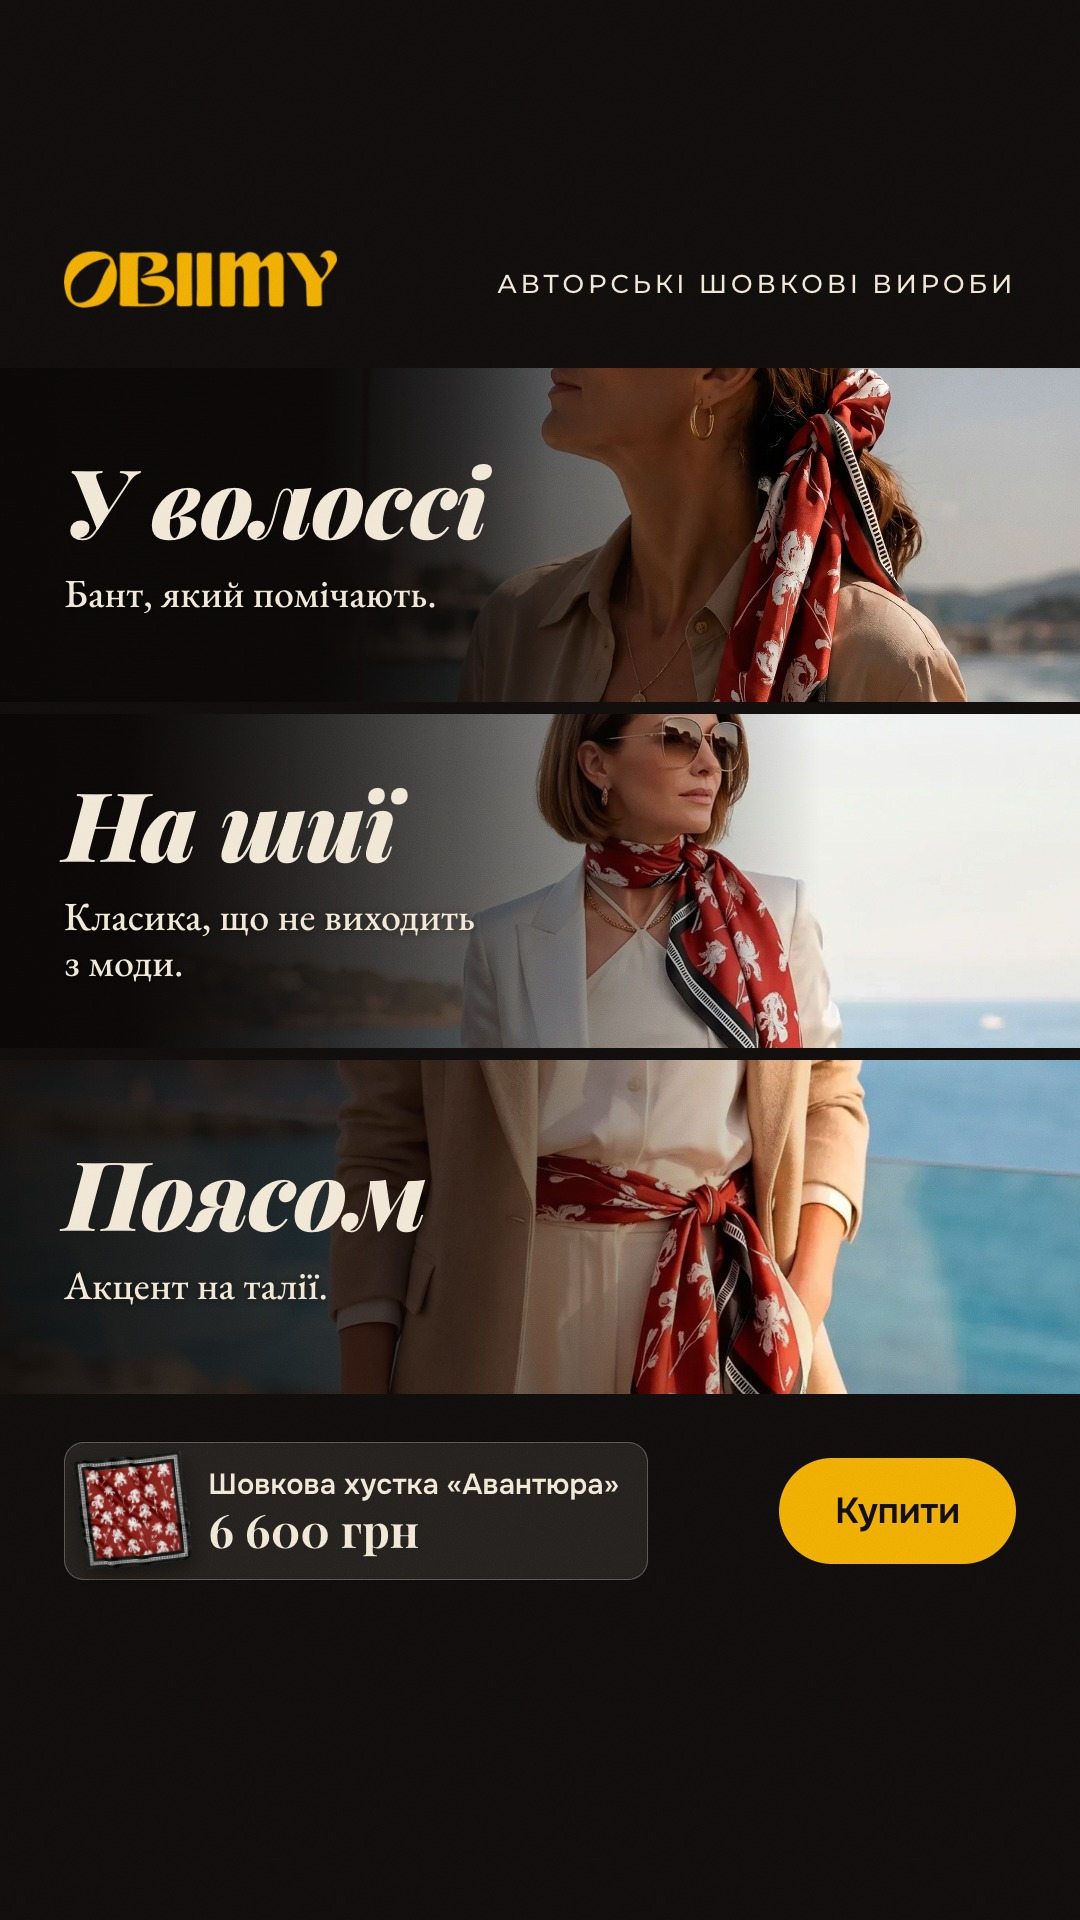
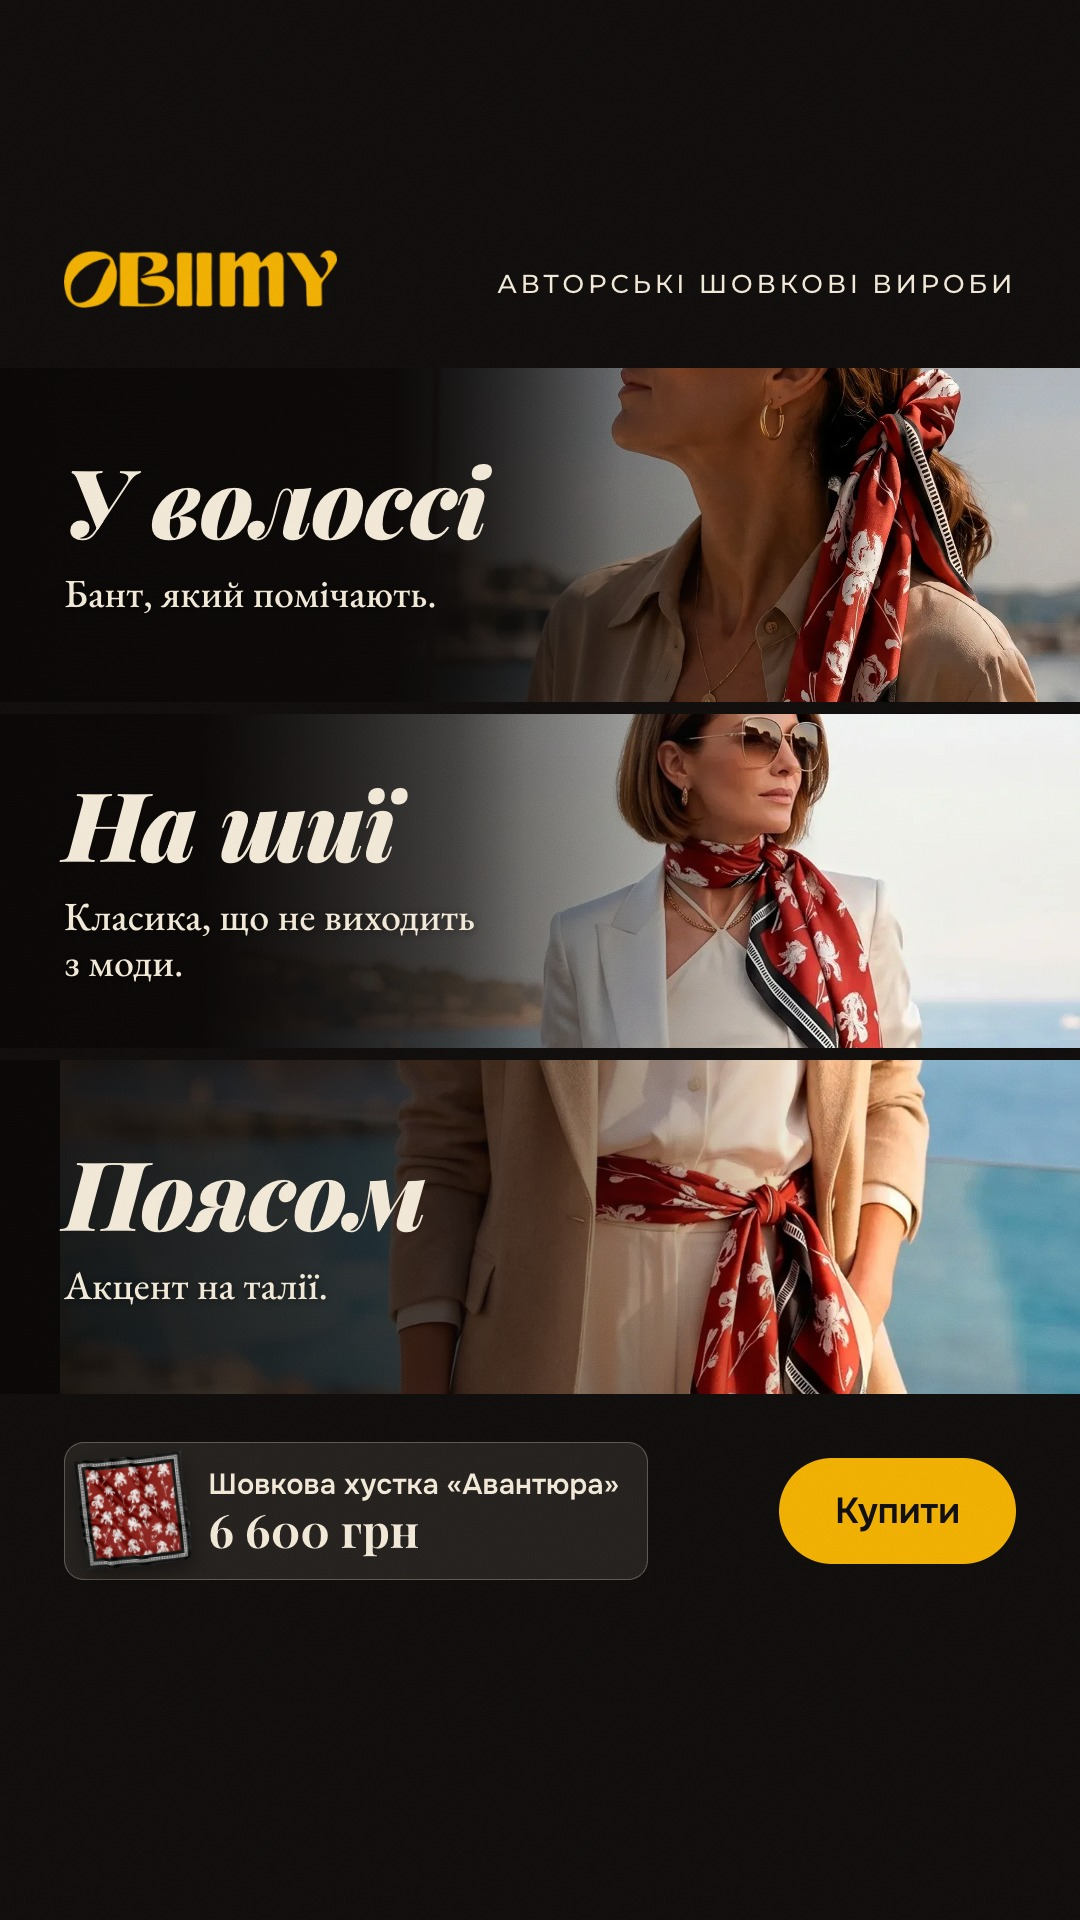
Creatives: «Одна хустка — три способи», story — the three figures moved right, away from the captions

Changed region(s): [[0.3056, 0.1875, 1.0, 0.75], [0.3361, 0.5, 0.4278, 0.5312], [0.9778, 0.5312, 1.0, 0.5625]]

diff --git a/site/creatives.html b/site/creatives.html
@@ -105,7 +105,7 @@ footer { margin-top: 72px; color: var(--ink2); font-size: .85rem; border-top: 1p
 <div class="fmt" role="group" aria-label="Формат банерів"><b>Формат:</b><button type="button" data-fmt="plain" aria-pressed="true">Банер 9:16</button><button type="button" data-fmt="story" aria-pressed="false">Сторіс · безпечна зона</button><button type="button" data-fmt="feed" aria-pressed="false">Стрічка 4:5</button><button type="button" data-fmt="square" aria-pressed="false">Квадрат 1:1</button><span class="fn" id="fmtn"></span><button type="button" id="zipall" class="zip" title="Усі формати всіх показаних банерів одним архівом">Завантажити все (ZIP)</button></div>
 
 <section class="grp flat"><div class="grid"><figure class="c st" data-f="st" data-id="solo-tri/t01-decades.jpg" data-plain="{&quot;f&quot;: &quot;creatives/solo-tri/t01-decades.jpg?v=5ddc2575&quot;, &quot;p&quot;: &quot;creatives/solo-tri/t01-decades-540.webp?v=5ddc2575&quot;, &quot;n&quot;: &quot;t01-decades.jpg&quot;, &quot;w&quot;: 540, &quot;h&quot;: 960}" data-alt="{&quot;story&quot;: {&quot;f&quot;: &quot;creatives/solo-tri/t01-decades-story.jpg?v=992465dd&quot;, &quot;p&quot;: &quot;creatives/solo-tri/t01-decades-story-540.webp?v=992465dd&quot;, &quot;n&quot;: &quot;t01-decades-story.jpg&quot;, &quot;w&quot;: 540, &quot;h&quot;: 960}, &quot;feed&quot;: {&quot;f&quot;: &quot;creatives/solo-tri/t01-decades-45.jpg?v=4184246b&quot;, &quot;p&quot;: &quot;creatives/solo-tri/t01-decades-45-540.webp?v=4184246b&quot;, &quot;n&quot;: &quot;t01-decades-45.jpg&quot;, &quot;w&quot;: 540, &quot;h&quot;: 675}, &quot;square&quot;: {&quot;f&quot;: &quot;creatives/solo-tri/t01-decades-1x1.jpg?v=073ab80b&quot;, &quot;p&quot;: &quot;creatives/solo-tri/t01-decades-1x1-540.webp?v=073ab80b&quot;, &quot;n&quot;: &quot;t01-decades-1x1.jpg&quot;, &quot;w&quot;: 540, &quot;h&quot;: 540}}"><a href="creatives/solo-tri/t01-decades.jpg?v=5ddc2575" target="_blank" rel="noopener"><img src="creatives/solo-tri/t01-decades-540.webp?v=5ddc2575" alt="Смуги-історії · варіант A" loading="lazy" width="540" height="960"></a>
-        <figcaption><label class="pick"><input type="checkbox" data-id="solo-tri/t01-decades.jpg"><span>Залишити</span></label><span class="fid">t01</span><a href="creatives/solo-tri/t01-decades.jpg?v=5ddc2575" download="t01-decades.jpg">JPG ↓</a></figcaption></figure><figure class="c st" data-f="st" data-id="solo-tri/t05-avantiura-ways.jpg" data-plain="{&quot;f&quot;: &quot;creatives/solo-tri/t05-avantiura-ways.jpg?v=55b422d6&quot;, &quot;p&quot;: &quot;creatives/solo-tri/t05-avantiura-ways-540.webp?v=55b422d6&quot;, &quot;n&quot;: &quot;t05-avantiura-ways.jpg&quot;, &quot;w&quot;: 540, &quot;h&quot;: 960}" data-alt="{&quot;story&quot;: {&quot;f&quot;: &quot;creatives/solo-tri/t05-avantiura-ways-story.jpg?v=102acc27&quot;, &quot;p&quot;: &quot;creatives/solo-tri/t05-avantiura-ways-story-540.webp?v=102acc27&quot;, &quot;n&quot;: &quot;t05-avantiura-ways-story.jpg&quot;, &quot;w&quot;: 540, &quot;h&quot;: 960}, &quot;feed&quot;: {&quot;f&quot;: &quot;creatives/solo-tri/t05-avantiura-ways-45.jpg?v=cbe2ee77&quot;, &quot;p&quot;: &quot;creatives/solo-tri/t05-avantiura-ways-45-540.webp?v=cbe2ee77&quot;, &quot;n&quot;: &quot;t05-avantiura-ways-45.jpg&quot;, &quot;w&quot;: 540, &quot;h&quot;: 675}, &quot;square&quot;: {&quot;f&quot;: &quot;creatives/solo-tri/t05-avantiura-ways-1x1.jpg?v=7af2ee6d&quot;, &quot;p&quot;: &quot;creatives/solo-tri/t05-avantiura-ways-1x1-540.webp?v=7af2ee6d&quot;, &quot;n&quot;: &quot;t05-avantiura-ways-1x1.jpg&quot;, &quot;w&quot;: 540, &quot;h&quot;: 540}}"><a href="creatives/solo-tri/t05-avantiura-ways.jpg?v=55b422d6" target="_blank" rel="noopener"><img src="creatives/solo-tri/t05-avantiura-ways-540.webp?v=55b422d6" alt="Смуги-історії · варіант A" loading="lazy" width="540" height="960"></a>
+        <figcaption><label class="pick"><input type="checkbox" data-id="solo-tri/t01-decades.jpg"><span>Залишити</span></label><span class="fid">t01</span><a href="creatives/solo-tri/t01-decades.jpg?v=5ddc2575" download="t01-decades.jpg">JPG ↓</a></figcaption></figure><figure class="c st" data-f="st" data-id="solo-tri/t05-avantiura-ways.jpg" data-plain="{&quot;f&quot;: &quot;creatives/solo-tri/t05-avantiura-ways.jpg?v=55b422d6&quot;, &quot;p&quot;: &quot;creatives/solo-tri/t05-avantiura-ways-540.webp?v=55b422d6&quot;, &quot;n&quot;: &quot;t05-avantiura-ways.jpg&quot;, &quot;w&quot;: 540, &quot;h&quot;: 960}" data-alt="{&quot;story&quot;: {&quot;f&quot;: &quot;creatives/solo-tri/t05-avantiura-ways-story.jpg?v=023518a1&quot;, &quot;p&quot;: &quot;creatives/solo-tri/t05-avantiura-ways-story-540.webp?v=023518a1&quot;, &quot;n&quot;: &quot;t05-avantiura-ways-story.jpg&quot;, &quot;w&quot;: 540, &quot;h&quot;: 960}, &quot;feed&quot;: {&quot;f&quot;: &quot;creatives/solo-tri/t05-avantiura-ways-45.jpg?v=cbe2ee77&quot;, &quot;p&quot;: &quot;creatives/solo-tri/t05-avantiura-ways-45-540.webp?v=cbe2ee77&quot;, &quot;n&quot;: &quot;t05-avantiura-ways-45.jpg&quot;, &quot;w&quot;: 540, &quot;h&quot;: 675}, &quot;square&quot;: {&quot;f&quot;: &quot;creatives/solo-tri/t05-avantiura-ways-1x1.jpg?v=7af2ee6d&quot;, &quot;p&quot;: &quot;creatives/solo-tri/t05-avantiura-ways-1x1-540.webp?v=7af2ee6d&quot;, &quot;n&quot;: &quot;t05-avantiura-ways-1x1.jpg&quot;, &quot;w&quot;: 540, &quot;h&quot;: 540}}"><a href="creatives/solo-tri/t05-avantiura-ways.jpg?v=55b422d6" target="_blank" rel="noopener"><img src="creatives/solo-tri/t05-avantiura-ways-540.webp?v=55b422d6" alt="Смуги-історії · варіант A" loading="lazy" width="540" height="960"></a>
         <figcaption><label class="pick"><input type="checkbox" data-id="solo-tri/t05-avantiura-ways.jpg"><span>Залишити</span></label><span class="fid">t05</span><a href="creatives/solo-tri/t05-avantiura-ways.jpg?v=55b422d6" download="t05-avantiura-ways.jpg">JPG ↓</a></figcaption></figure><figure class="c st" data-f="st" data-id="solo-main/p01-quiet-luxury.jpg" data-plain="{&quot;f&quot;: &quot;creatives/solo-main/p01-quiet-luxury.jpg?v=c234fc8a&quot;, &quot;p&quot;: &quot;creatives/solo-main/p01-quiet-luxury-540.webp?v=c234fc8a&quot;, &quot;n&quot;: &quot;p01-quiet-luxury.jpg&quot;, &quot;w&quot;: 540, &quot;h&quot;: 960}"><a href="creatives/solo-main/p01-quiet-luxury.jpg?v=c234fc8a" target="_blank" rel="noopener"><img src="creatives/solo-main/p01-quiet-luxury-540.webp?v=c234fc8a" alt="Варіант A · тихий преміум" loading="lazy" width="540" height="960"></a>
         <figcaption><label class="pick"><input type="checkbox" data-id="solo-main/p01-quiet-luxury.jpg"><span>Залишити</span></label><span class="fid">p01</span><a href="creatives/solo-main/p01-quiet-luxury.jpg?v=c234fc8a" download="p01-quiet-luxury.jpg">JPG ↓</a></figcaption></figure><figure class="c st" data-f="st" data-id="solo-main/p05-character.jpg" data-plain="{&quot;f&quot;: &quot;creatives/solo-main/p05-character.jpg?v=030c663a&quot;, &quot;p&quot;: &quot;creatives/solo-main/p05-character-540.webp?v=030c663a&quot;, &quot;n&quot;: &quot;p05-character.jpg&quot;, &quot;w&quot;: 540, &quot;h&quot;: 960}" data-alt="{&quot;story&quot;: {&quot;f&quot;: &quot;creatives/solo-main/p05-character-story.jpg?v=eed94415&quot;, &quot;p&quot;: &quot;creatives/solo-main/p05-character-story-540.webp?v=eed94415&quot;, &quot;n&quot;: &quot;p05-character-story.jpg&quot;, &quot;w&quot;: 540, &quot;h&quot;: 960}, &quot;feed&quot;: {&quot;f&quot;: &quot;creatives/solo-main/p05-character-45.jpg?v=49041a0a&quot;, &quot;p&quot;: &quot;creatives/solo-main/p05-character-45-540.webp?v=49041a0a&quot;, &quot;n&quot;: &quot;p05-character-45.jpg&quot;, &quot;w&quot;: 540, &quot;h&quot;: 675}, &quot;square&quot;: {&quot;f&quot;: &quot;creatives/solo-main/p05-character-1x1.jpg?v=e0087e64&quot;, &quot;p&quot;: &quot;creatives/solo-main/p05-character-1x1-540.webp?v=e0087e64&quot;, &quot;n&quot;: &quot;p05-character-1x1.jpg&quot;, &quot;w&quot;: 540, &quot;h&quot;: 540}}"><a href="creatives/solo-main/p05-character.jpg?v=030c663a" target="_blank" rel="noopener"><img src="creatives/solo-main/p05-character-540.webp?v=030c663a" alt="Варіант A · тихий преміум" loading="lazy" width="540" height="960"></a>
         <figcaption><label class="pick"><input type="checkbox" data-id="solo-main/p05-character.jpg"><span>Залишити</span></label><span class="fid">p05</span><a href="creatives/solo-main/p05-character.jpg?v=030c663a" download="p05-character.jpg">JPG ↓</a></figcaption></figure><figure class="c st" data-f="st" data-id="solo-main/p06-noticed.jpg" data-plain="{&quot;f&quot;: &quot;creatives/solo-main/p06-noticed.jpg?v=22dc43d3&quot;, &quot;p&quot;: &quot;creatives/solo-main/p06-noticed-540.webp?v=22dc43d3&quot;, &quot;n&quot;: &quot;p06-noticed.jpg&quot;, &quot;w&quot;: 540, &quot;h&quot;: 960}" data-alt="{&quot;story&quot;: {&quot;f&quot;: &quot;creatives/solo-main/p06-noticed-story.jpg?v=67901893&quot;, &quot;p&quot;: &quot;creatives/solo-main/p06-noticed-story-540.webp?v=67901893&quot;, &quot;n&quot;: &quot;p06-noticed-story.jpg&quot;, &quot;w&quot;: 540, &quot;h&quot;: 960}, &quot;feed&quot;: {&quot;f&quot;: &quot;creatives/solo-main/p06-noticed-45.jpg?v=e0c1b71b&quot;, &quot;p&quot;: &quot;creatives/solo-main/p06-noticed-45-540.webp?v=e0c1b71b&quot;, &quot;n&quot;: &quot;p06-noticed-45.jpg&quot;, &quot;w&quot;: 540, &quot;h&quot;: 675}, &quot;square&quot;: {&quot;f&quot;: &quot;creatives/solo-main/p06-noticed-1x1.jpg?v=aa799925&quot;, &quot;p&quot;: &quot;creatives/solo-main/p06-noticed-1x1-540.webp?v=aa799925&quot;, &quot;n&quot;: &quot;p06-noticed-1x1.jpg&quot;, &quot;w&quot;: 540, &quot;h&quot;: 540}}"><a href="creatives/solo-main/p06-noticed.jpg?v=22dc43d3" target="_blank" rel="noopener"><img src="creatives/solo-main/p06-noticed-540.webp?v=22dc43d3" alt="Варіант A · тихий преміум" loading="lazy" width="540" height="960"></a>

diff --git a/ads/solo/solo6-story.html b/ads/solo/solo6-story.html
@@ -97,11 +97,11 @@ body { margin: 0; background: #555; font-family: 'Onest', Arial, sans-serif; -we
   <div style="left:64px;top:250px;height:58px;width:273px;background:#F2B705;-webkit-mask:url(../../brand/logo-white.png) 0 0/100% 100% no-repeat;mask:url(../../brand/logo-white.png) 0 0/100% 100% no-repeat"></div>
   <p style="right:64px;top:268px;font-family:Montserrat,sans-serif;font-size:26px;font-weight:500;letter-spacing:.14em;text-transform:uppercase;white-space:nowrap;color:#F3EADB">Авторські шовкові вироби</p>
   
-  <div class="band" style="top:368px;height:334px"><img src="src/avantiura-88-5.webp" alt="" style="object-position:50% 46%;;width:70%;margin-left:auto;-webkit-mask-image:linear-gradient(90deg,transparent 0,#000 30%);mask-image:linear-gradient(90deg,transparent 0,#000 30%)"><div class="veil"></div>
+  <div class="band" style="top:368px;height:334px"><img src="src/avantiura-88-5.webp" alt="" style="object-position:50% 46%;;transform:translateX(70px);width:70%;margin-left:auto;-webkit-mask-image:linear-gradient(90deg,transparent 0,#000 30%);mask-image:linear-gradient(90deg,transparent 0,#000 30%)"><div class="veil"></div>
     <div class="txt" style="width:620px"><p class="big" style="font-size:96px">У волоссі</p><p class="small" style="font-size:40px;max-width:480px;margin-top:26px">Бант, який помічають.</p></div></div>
-  <div class="band" style="top:714px;height:334px"><img src="src/avantiura-88-4.webp" alt="" style="object-position:50% 22%;;width:100%;margin-left:120px;-webkit-mask-image:linear-gradient(90deg,transparent 0,#000 30%);mask-image:linear-gradient(90deg,transparent 0,#000 30%)"><div class="veil"></div>
+  <div class="band" style="top:714px;height:334px"><img src="src/avantiura-88-4.webp" alt="" style="object-position:50% 22%;;transform:translateX(80px);width:100%;margin-left:120px;-webkit-mask-image:linear-gradient(90deg,transparent 0,#000 30%);mask-image:linear-gradient(90deg,transparent 0,#000 30%)"><div class="veil"></div>
     <div class="txt" style="width:620px"><p class="big" style="font-size:96px">На шиї</p><p class="small" style="font-size:40px;max-width:480px;margin-top:26px">Класика, що не виходить<br>з моди.</p></div></div>
-  <div class="band" style="top:1060px;height:334px"><img src="src/avantiura-88-2.webp" alt="" style="object-position:45% 73%;;width:112%"><div class="veil"></div>
+  <div class="band" style="top:1060px;height:334px"><img src="src/avantiura-88-2.webp" alt="" style="object-position:45% 73%;;transform:translateX(60px);width:112%"><div class="veil"></div>
     <div class="txt" style="width:620px"><p class="big" style="font-size:96px">Поясом</p><p class="small" style="font-size:40px;max-width:480px;margin-top:26px">Акцент на талії.</p></div></div>
   
   <div style="left:64px;right:64px;bottom:340px;display:flex;align-items:center;justify-content:space-between;gap:24px">

diff --git a/ads/solo/build6.py b/ads/solo/build6.py
@@ -114,7 +114,8 @@ def band(top, height, b, n=3):
     elif photo.startswith("url("):
         pic = f'<div style="position:absolute;inset:0;background:{photo} {pos}"></div>'
     else:
-        more = (";transform:scaleX(-1)" if extra.get("flip") else "") + (";width:%d%%" % wide if wide else "") + (f";width:{fit}%;margin-left:auto;{fade}" if fit else "") + (f";margin-left:{extra['dx']}px;{fade}" if extra.get("dx") and wide else "")
+        shift = f";transform:translateX({extra['sx']}px)" if FORMAT == "story" and extra.get("sx") and not extra.get("flip") else ""   # story: the figure moved right, away from the caption
+        more = shift + (";transform:scaleX(-1)" if extra.get("flip") else "") + (";width:%d%%" % wide if wide else "") + (f";width:{fit}%;margin-left:auto;{fade}" if fit else "") + (f";margin-left:{extra['dx']}px;{fade}" if extra.get("dx") and wide else "")
         pic = f'<img src="{S(photo)}" alt="" style="object-position:{pos};{FILTERS[look]}{more}">'
     return f'''
   <div class="band" style="top:{top}px;height:{height}px">{pic}<div class="veil"{' style="background:' + extra["veil"] + '"' if extra.get("veil") else ""}></div>
@@ -182,9 +183,9 @@ triptych("t04-flirt-three-ways", "Один принт — три образи", 
 ], "«Флірт»: хустка й твіллі одного принту.", (["flirt-65-1", "flirt-tw-5"], "Хустка й твіллі «Флірт»", "від 1 600 грн"), "Обрати «Флірт»", "Flirt three ways")
 
 triptych("t05-avantiura-ways", "Одна хустка — три способи", [
-    ("avantiura-88-5", "50% 0%", "У волоссі", "Бант, який помічають.", "raw", {"size": 96, "fit": 70, "focus": .48}),
-    ("avantiura-88-4", "50% 6%", "На шиї", "Класика, що не виходить<br>з моди.", "raw", {"size": 96, "wide": 125, "dx": 120, "focus": .40, "sfocus": .31, "swide": 100}),
-    ("avantiura-88-2", "45% 76%", "Поясом", "Акцент на талії.", "raw", {"size": 96, "wide": 112, "focus": .67}),
+    ("avantiura-88-5", "50% 0%", "У волоссі", "Бант, який помічають.", "raw", {"size": 96, "fit": 70, "focus": .48, "sx": 70}),
+    ("avantiura-88-4", "50% 6%", "На шиї", "Класика, що не виходить<br>з моди.", "raw", {"size": 96, "wide": 125, "dx": 120, "focus": .40, "sfocus": .31, "swide": 100, "sx": 80}),
+    ("avantiura-88-2", "45% 76%", "Поясом", "Акцент на талії.", "raw", {"size": 96, "wide": 112, "focus": .67, "sx": 60}),
 ], "", (["avantiura-88-1"], "Шовкова хустка «Авантюра»", "6 600 грн"), "Купити", "Avantiura three ways", plain=True, logo_col="#F2B705")
 
 triptych("t06-formats", "Оберіть свій формат", [
